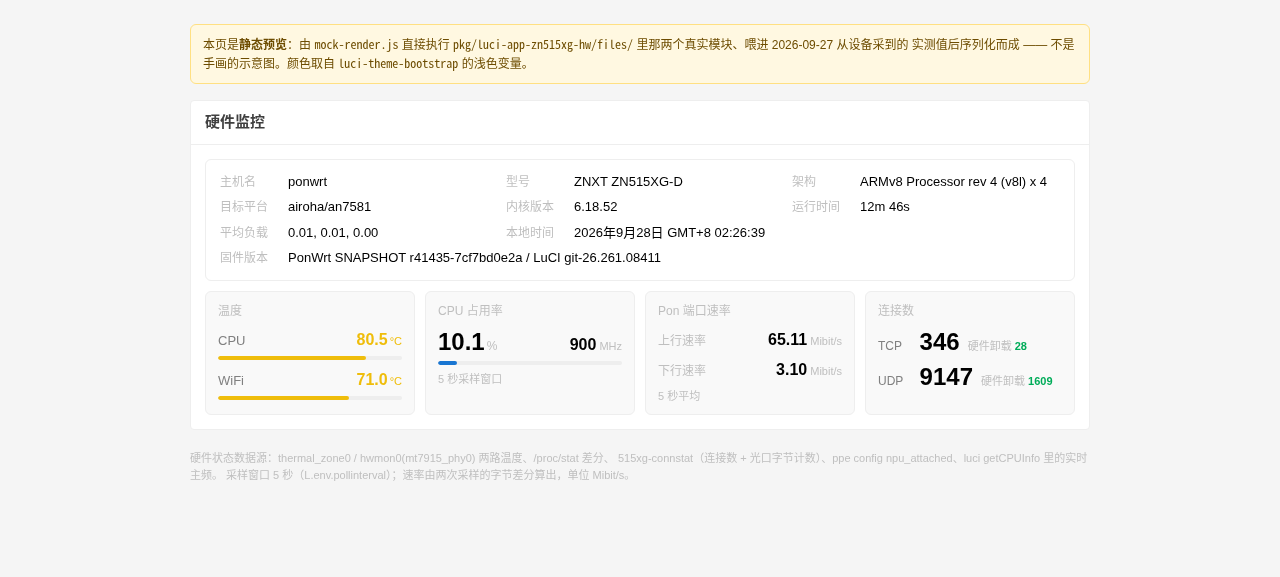
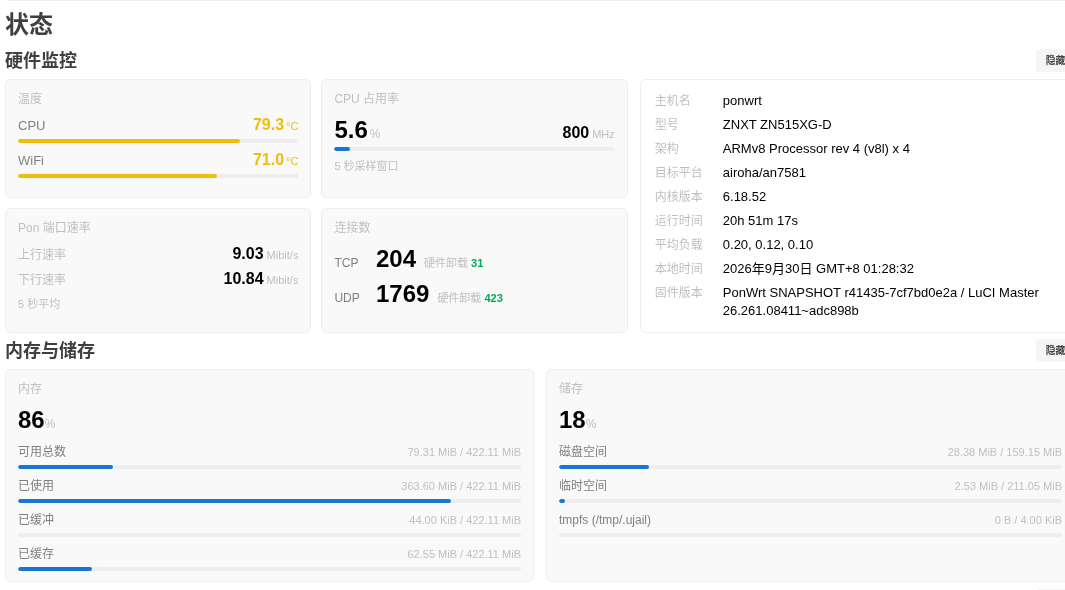
总览页：四张卡的主数值统一成同一字号（24 px）
用户指着设备截图圈了 温度(79.2 / 73.0 °C)、Pon 端口速率(9.95 / 10.65 Mibit/s)、
连接数(205 / 1757) 三处数值，要求「改成 CPU 占用率那个 12.5 一样大」。

- 新增 S_BIG_BASE（不含 color 的 24px/600），S_BIG = S_BIG_BASE + '; color: ' + cStrong。
  温度数值改用 S_BIG_BASE + 动态冷热色（原来是单独写的 16px/600），
  rateLine() 的数值由 S_RATE(16px) 换成 S_BIG。
  连接数本来就是 S_BIG（与 CPU 同一常量），代码上没动。
- 单位小字统一 12px：S_RATE_UNIT 11→12、温度的 °C 11→12，与 CPU 卡的 % 一致。
  只放大主数值 —— 单位与次要读数（CPU 实时主频）保持小字。
- docs：screenshot.png 换成本次真机截图裁出的 1065x590（旧的是 r1 时期的布局），
  新增 docs/block-memstore.png，README 图片引用同步更新。

验证：selftest.js 全部通过；预览经 mock-render.js 重渲，四处主数值实测均为
font-size: 24px; font-weight: 600。

注意：这一版还没编进 apk —— 设备上跑的还是 r3 的旧字号。

diff --git a/files/15_hw.js b/files/15_hw.js
@@ -152,7 +152,14 @@ var S_SURFACE   = 'min-width: 0; background: ' + cSurface + '; border: 1px solid
 var S_CARD      = 'background: ' + cCardBg + '; border: 1px solid ' + cBorder + '; border-radius: 6px; padding: 10px 12px; min-width: 0';
 var S_CARD_TITLE = 'font-size: 12px; color: ' + cLabel + '; margin-bottom: 8px';
 var S_EMPTY     = 'font-size: 13px; color: ' + cLabel;
-var S_BIG       = 'font-size: 24px; font-weight: 600; line-height: 1.15; font-variant-numeric: tabular-nums; color: ' + cStrong;
+/* Every card's *leading figure* is set at this one size - the CPU percentage,
+ * the TCP/UDP counts, the two temperatures and the uplink rate - so the four
+ * cards read as one set.  Only the leading figure is promoted; its unit and any
+ * secondary reading (the CPU clock) stay small.  S_BIG_BASE is the colourless
+ * half, so the temperature card can put its warm/hot/cool colour on it. */
+var S_BIG_BASE  = 'font-size: 24px; font-weight: 600; line-height: 1.15; font-variant-numeric: tabular-nums';
+var S_BIG       = S_BIG_BASE + '; color: ' + cStrong;
+var S_UNIT      = 'font-size: 12px; color: ' + cLabel;
 var S_NOTE      = 'font-size: 11px; color: ' + cLabel;
 var S_TRACK     = 'height: 4px; margin-top: 4px; border-radius: 2px; background: ' + cTrack + '; overflow: hidden';
 /* The offloaded-flow count is a good-news reading, so the *number* gets the
@@ -160,10 +167,12 @@ var S_TRACK     = 'height: 4px; margin-top: 4px; border-radius: 2px; background:
  * grey it shares with the other captions - only the value is coloured. */
 var S_OFFLOAD     = 'font-size: 11px; color: ' + cLabel;
 var S_OFFLOAD_NUM = 'color: ' + cCool + '; font-weight: 600';
+/* The CPU clock is a *secondary* reading sitting next to the big percentage, so
+ * it stays one step below S_BIG. */
 var S_RATE       = 'font-size: 16px; font-weight: 600; font-variant-numeric: tabular-nums; color: ' + cStrong;
-var S_RATE_UNIT  = 'font-size: 11px; color: ' + cLabel + '; margin-left: 3px';
-/* The direction caption inside the throughput card ("上行速率" / "下行速率").
- * It replaced the old arrow glyphs so the two rows read without guessing. */
+var S_RATE_UNIT  = 'font-size: 12px; color: ' + cLabel + '; margin-left: 3px';
+/* The muted caption in front of a reading ("上行速率", "TCP"), sized to sit on
+ * the baseline of a 24 px figure without drawing attention to itself. */
 var S_RATE_LABEL = 'font-size: 12px; color: ' + cLabel;
 
 /* drop null/undefined children - the DOM helper is not relied upon for that */
@@ -252,11 +261,9 @@ function buildTemps(hw) {
 		}, [
 			E('div', { 'style': 'display: flex; align-items: baseline; justify-content: space-between; gap: 8px' }, [
 				E('span', { 'style': 'font-size: 13px; color: ' + cText }, [ t.label ]),
-				E('span', {
-					'style': 'font-size: 16px; font-weight: 600; font-variant-numeric: tabular-nums; color: ' + color
-				}, [
+				E('span', { 'style': S_BIG_BASE + '; color: ' + color }, [
 					(t.value / 1000.0).toFixed(1),
-					E('span', { 'style': 'font-size: 11px; font-weight: 400; margin-left: 2px' }, [ '°C' ])
+					E('span', { 'style': 'font-size: 12px; font-weight: 400; margin-left: 2px' }, [ '°C' ])
 				])
 			]),
 			bar(tempBarWidth(t.value), color)
@@ -277,7 +284,7 @@ function buildUsage(hw, freq) {
 		E('div', { 'style': 'display: flex; align-items: baseline; justify-content: space-between; gap: 8px' }, kids(
 			E('span', { 'style': 'display: flex; align-items: baseline; gap: 2px' }, [
 				E('span', { 'style': S_BIG }, [ hw.cpuusage.toFixed(1) ]),
-				E('span', { 'style': 'font-size: 12px; color: ' + cLabel }, [ '%' ])
+				E('span', { 'style': S_UNIT }, [ '%' ])
 			]),
 			freq != null ? E('span', {}, [
 				E('span', { 'style': S_RATE }, [ freq ]),
@@ -300,7 +307,7 @@ function rateLine(label, value, spaced) {
 	}, [
 		E('span', { 'style': S_RATE_LABEL }, [ label ]),
 		E('span', {}, [
-			E('span', { 'style': S_RATE }, [ value.toFixed(2) ]),
+			E('span', { 'style': S_BIG }, [ value.toFixed(2) ]),
 			E('span', { 'style': S_RATE_UNIT }, [ 'Mibit/s' ])
 		])
 	]);

diff --git a/README.md b/README.md
@@ -11,6 +11,7 @@
 ![状态总览](docs/screenshot.png)
 
 <p align="center">
+  <img src="docs/block-memstore.png" alt="内存与储存块：内存 4 行 / 储存 3 行，两张卡底边拉齐" width="760"><br>
   <img src="docs/rate-card.png" alt="Pon 端口速率卡片" width="280">
 </p>
 
